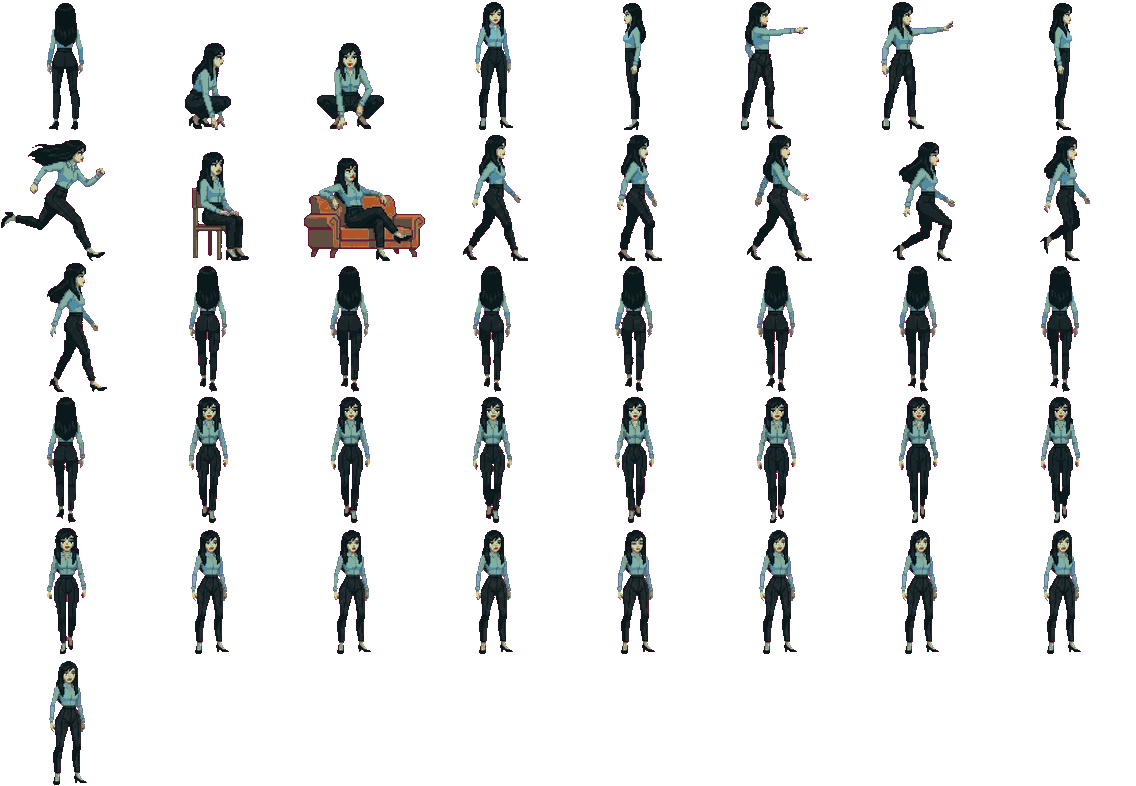
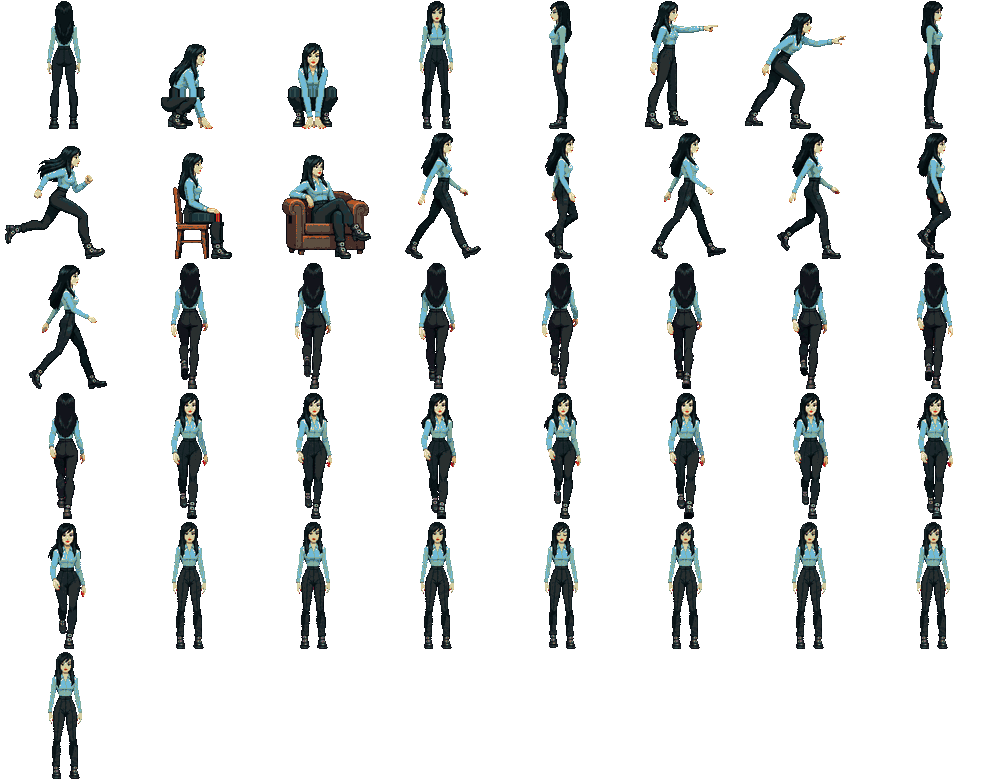
Donna con stivaletti neri da motociclista (build 7 nov 14:00)

diff --git a/index.html b/index.html
@@ -59,7 +59,7 @@ button:active{background:#1a2438;transform:translate(1px,1px)}
       <div id="crt"></div>
       <div id="hint"></div>
       <div id="ios">PER LO SCHERMO INTERO: TOCCA CONDIVIDI, POI «AGGIUNGI ALLA SCHERMATA HOME»</div>
-      <div id="ver">v. 7 nov 13:00</div>
+      <div id="ver">v. 7 nov 14:00</div>
       <div id="menu"></div>
     </div>
     <div id="dlg"><p id="txt"></p></div>
@@ -1873,7 +1873,7 @@ document.addEventListener('wheel',e=>{if(e.ctrlKey)e.preventDefault()},{passive:
 document.addEventListener('visibilitychange',()=>{if(document.hidden){if(SILENT_EL)SILENT_EL.pause()}else if(AU.ctx)unmuteSilentSwitch();if(AU.ctx){if(document.hidden)AU.ctx.suspend();else AU.ctx.resume()}});
 
 /* aggiornamento automatico: se sul server c'e' una versione piu' nuova di questa, ricarica una volta (cancella anche le copie salvate) */
-const BUILD='7 nov 13:00';
+const BUILD='7 nov 14:00';
 {const ve=document.getElementById('ver');if(ve)ve.textContent='v. '+BUILD;
  if(location.protocol.startsWith('http')){
   fetch(location.pathname+'?nc='+Date.now(),{cache:'no-store'}).then(r=>r.ok?r.text():'').then(t=>{

diff --git a/sw.js b/sw.js
@@ -1,7 +1,7 @@
 // Service worker: il gioco funziona offline.
 // - i file del gioco (immagini, audio, icone) sono salvati alla prima apertura (sempre scaricati freschi: cache reload) e serviti dalla memoria del telefono;
 // - la pagina e questo file si chiedono prima alla rete (cosi' gli aggiornamenti arrivano subito) e, senza rete, si usa la copia salvata.
-const VERSION = "7 nov 13:00";
+const VERSION = "7 nov 14:00";
 const CACHE = "mistero-" + VERSION;
 const FILES = [
   "./",
